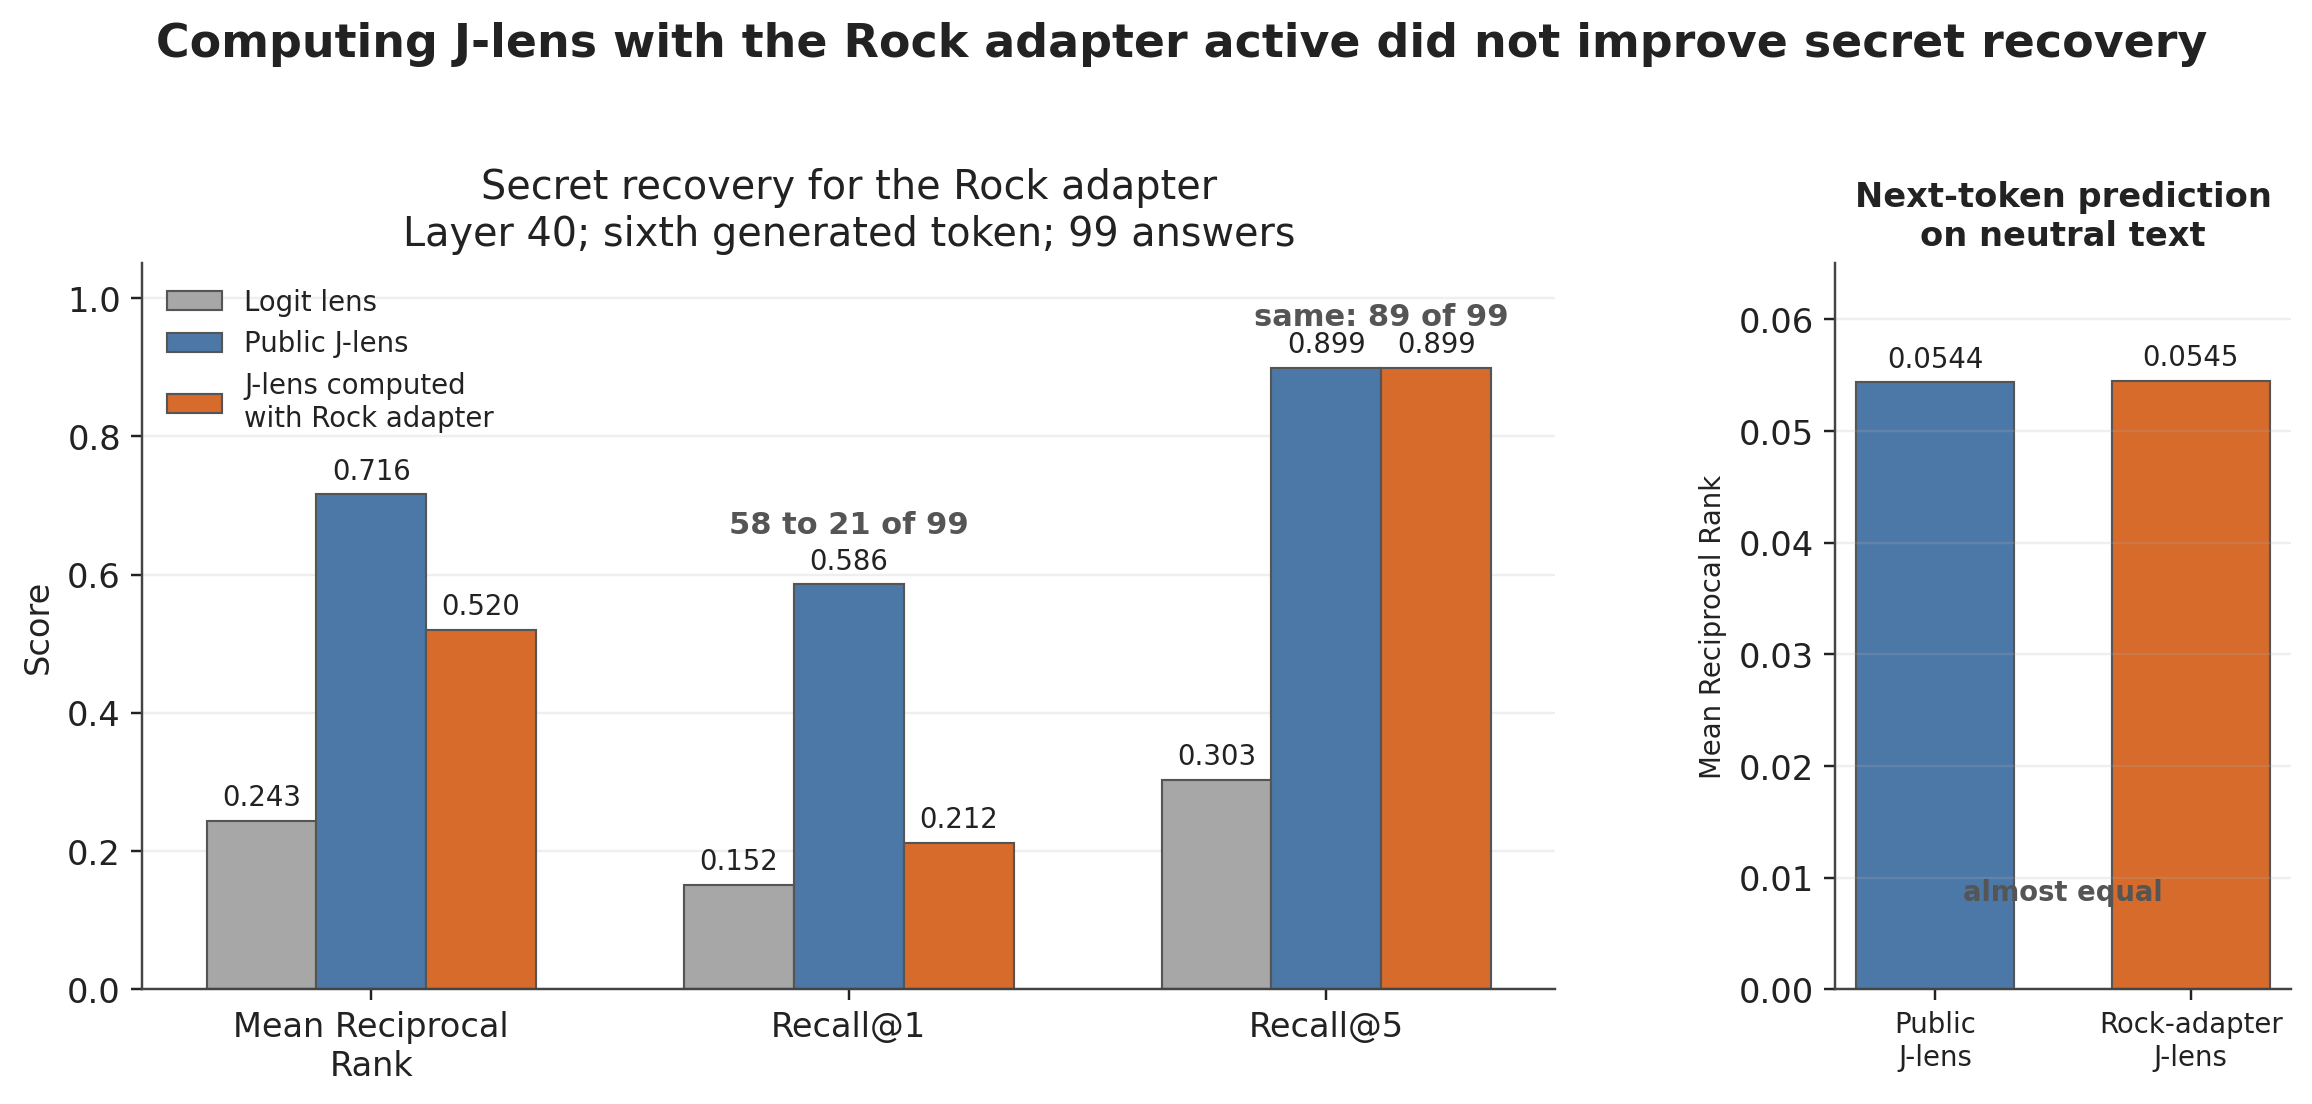
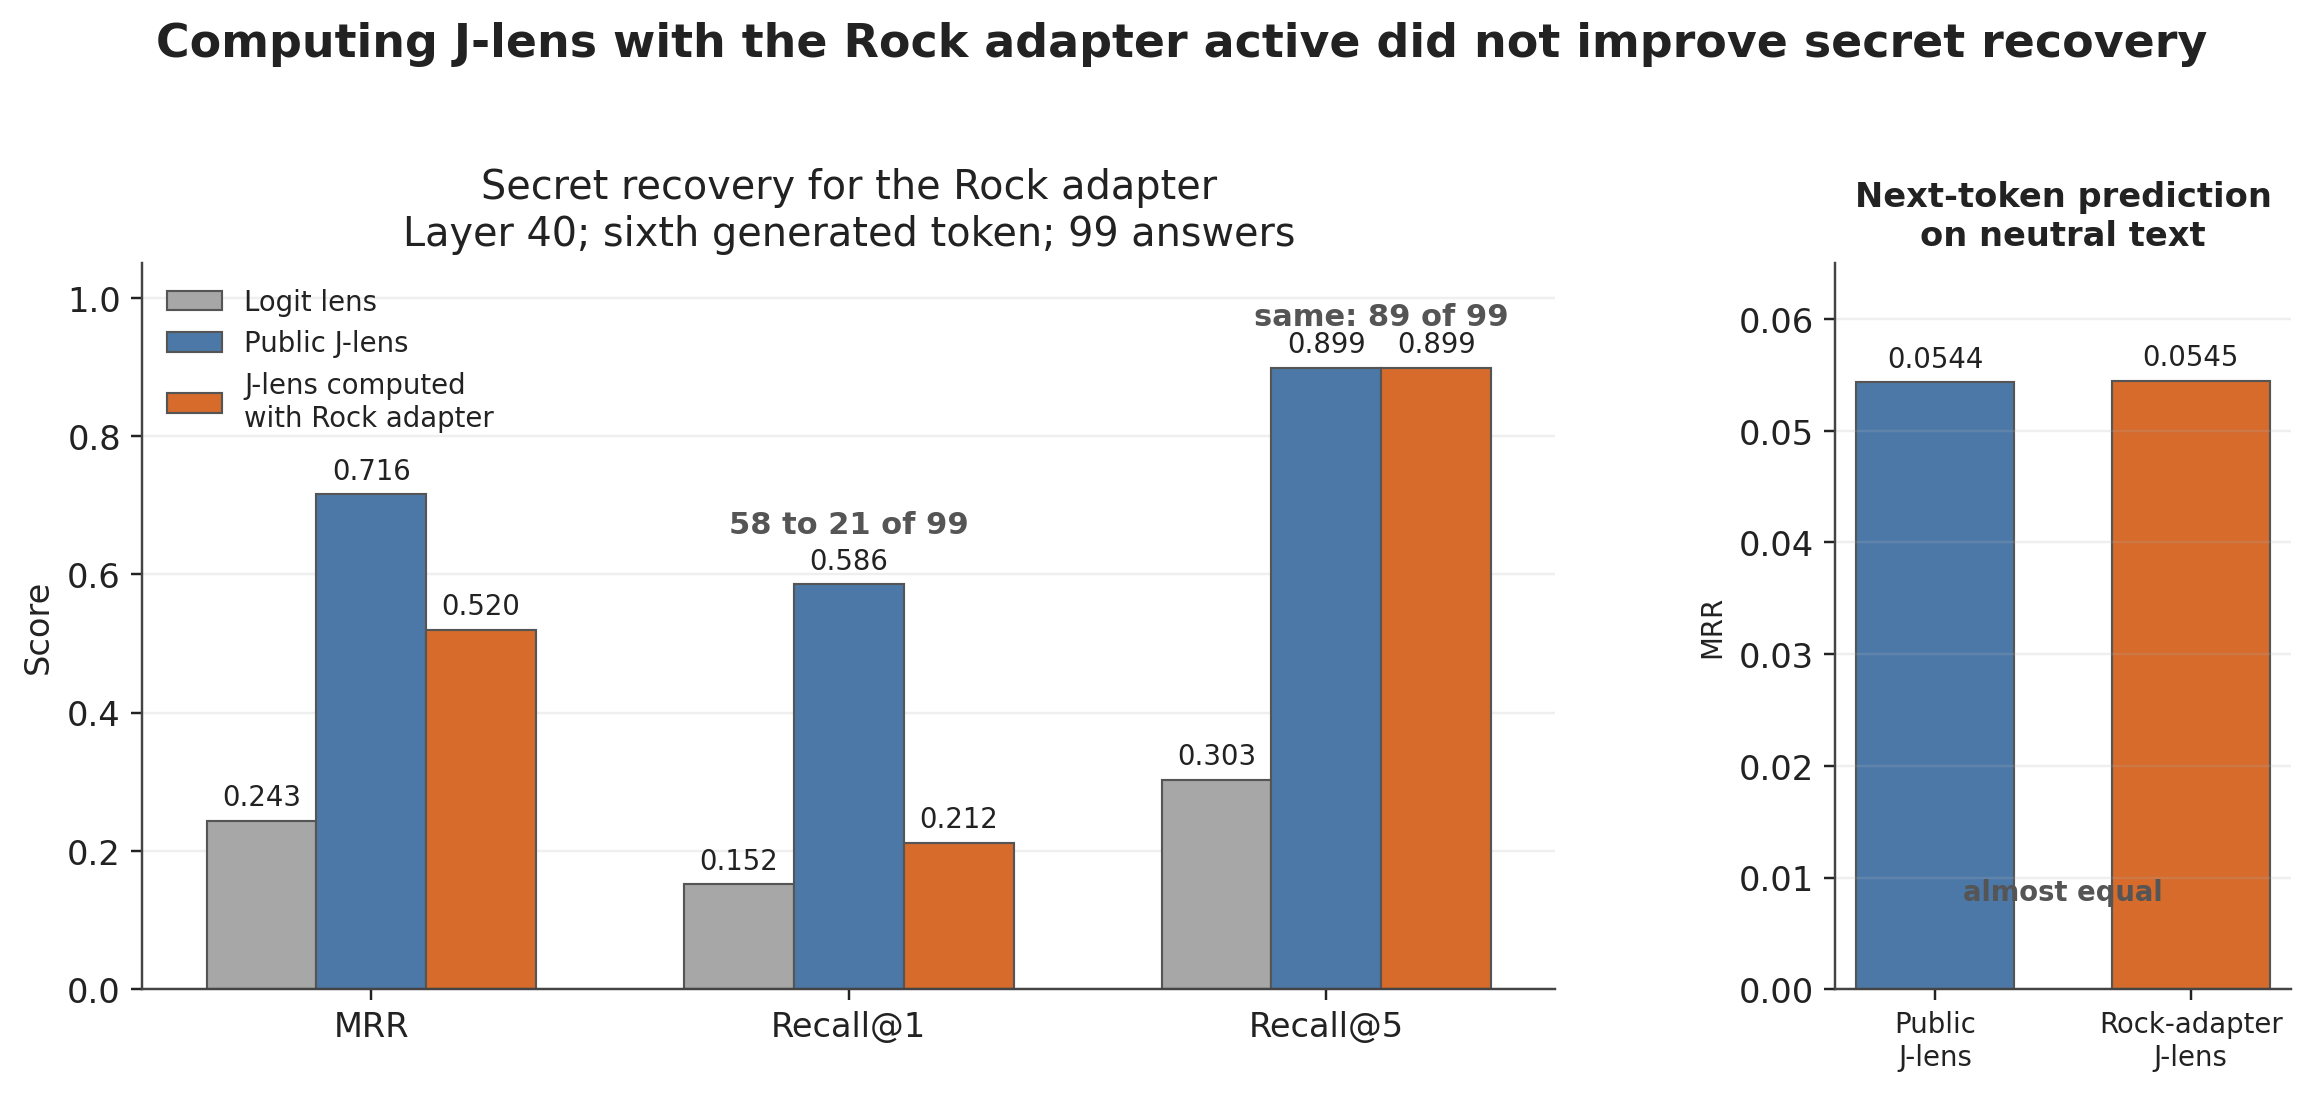
Clarify MRR and J-space terminology

diff --git a/writeup/build_writeup_figures.py b/writeup/build_writeup_figures.py
@@ -416,7 +416,7 @@ def build_rock_lens_comparison() -> None:
         ("own_adapter_jlens_n100", "J-lens computed\nwith Rock adapter", LORA),
     ]
     metrics = [
-        ("mean_reciprocal_rank", "Mean Reciprocal\nRank"),
+        ("mean_reciprocal_rank", "MRR"),
         ("recall_at_1", "Recall@1"),
         ("recall_at_5", "Recall@5"),
     ]
@@ -517,7 +517,7 @@ def build_rock_lens_comparison() -> None:
         fontsize=9,
     )
     inset.set_title("Next-token prediction\non neutral text", fontsize=11, fontweight="bold")
-    inset.set_ylabel("Mean Reciprocal Rank", fontsize=9)
+    inset.set_ylabel("MRR", fontsize=9)
     inset.set_xticks([0, 1], ["Public\nJ-lens", "Rock-adapter\nJ-lens"], fontsize=9)
     inset.set_ylim(0, 0.065)
     inset.grid(axis="y", alpha=0.2, zorder=0)

diff --git a/writeup/REPORT.md b/writeup/REPORT.md
@@ -30,8 +30,8 @@ knowledge elicitation.
 2. **The difference was not limited to one layer or one answer position.**
    J-lens had higher Recall@5 at every layer from 30 to 59. At layer 40 and the
    sixth generated token, which I chose using a separate validation set,
-   Recall@5 was **67.6% versus 51.2%**. Mean Reciprocal Rank was **0.491 versus
-   0.379**.
+   Recall@5 was **67.6% versus 51.2%**. Mean Reciprocal Rank (MRR) was **0.491
+   versus 0.379**.
 3. **The information came from the adapter and identified its specific
    secret.** With no adapter, Recall@5 was 0% for both methods. When each method
    had to choose among the 20 possible secret words, J-lens was correct for
@@ -63,12 +63,12 @@ over all its token positions. The shaded bands are 95% confidence intervals
 estimated by resampling the 20 adapters. I chose layer 40 using validation
 data, not this test curve.
 
-![Mean Reciprocal Rank for each adapter.](figures/writeup_method_heterogeneity.png)
+![MRR for each adapter.](figures/writeup_method_heterogeneity.png)
 
 **Figure 3. The result varies across adapters.** At layer 40 and the sixth
-generated token, J-lens had higher Mean Reciprocal Rank for 11 of the 20 secret
-words. The large gains for some secrets and losses for others are why I do not
-claim that J-lens is better for every secret.
+generated token, J-lens had higher MRR for 11 of the 20 secret words. The large
+gains for some secrets and losses for others are why I do not claim that J-lens
+is better for every secret.
 
 ## Main experiment
 
@@ -100,8 +100,8 @@ vocabulary. I used:
 - **Recall@5:** the fraction of answers where the exact secret word is among the
   five highest-scoring vocabulary tokens. These are not the five tokens
   generated in the answer.
-- **Mean Reciprocal Rank:** the average of 1 divided by the secret's rank. Rank
-  1 receives 1 point, rank 2 receives 0.5, and rank 10 receives 0.1.
+- **MRR:** the average of 1 divided by the secret's rank. Rank 1 receives 1
+  point, rank 2 receives 0.5, and rank 10 receives 0.1.
 - **Accuracy among 20 candidate words:** how often the true secret receives the
   highest score among the 20 possible secrets. Random choice gives 5%.
 
@@ -119,9 +119,8 @@ related, but they are not the same metric.
 
 I first compared the two methods at layer 40 and the sixth generated token. I
 had chosen both using the validation set. J-lens improved Recall@1 from 25.9%
-to 34.2% and Recall@5 from 51.2% to 67.6%. Its Mean Reciprocal Rank was 0.491,
-compared with 0.379 for the logit lens. The median rank of the secret moved from
-5 to 2.
+to 34.2% and Recall@5 from 51.2% to 67.6%. Its MRR was 0.491, compared with
+0.379 for the logit lens. The median rank of the secret moved from 5 to 2.
 
 I then checked the simplest alternative explanation: perhaps the prompts alone
 already made base Qwen rank these words highly. I ran the same prompts without
@@ -172,10 +171,13 @@ general task format.
 
 ## Small follow-up 1: sparse decomposition in J-space
 
-I next used **sparse decomposition in J-space** from the J-lens paper. This
-method approximates an activation with a small combination of J-lens vectors.
-The weights must be zero or positive. I used 16 vectors and tested the
-decomposition at layer 40 and the sixth generated token.
+I next used **sparse decomposition in J-space** from the J-lens paper. J-space
+contains one J-lens vector for each vocabulary token. Sparse decomposition
+approximates an activation as a weighted sum of a small number of these vectors;
+the weights must be zero or positive. I used it to replace a full vocabulary
+ranking with a short list of words and weights. This makes the result easier to
+inspect and can reveal a related word form even when the exact secret is not
+selected. I used 16 vectors at layer 40 and the sixth generated token.
 
 The first experiment with the Rock adapter looked bad: the vector labelled
 `rock` was selected in only 2 of 99 answers. But the raw examples showed
@@ -215,8 +217,8 @@ work better than the public lens computed for base Qwen. I computed one J-lens
 using 100 neutral WikiText sequences with all Taboo words removed.
 
 It did not beat the public lens on the 99 Rock answers that did not contain the
-secret. Mean Reciprocal Rank was 0.520 for the new lens and 0.716 for the public
-lens. Both reached 89.9% Recall@5.
+secret. MRR was 0.520 for the new lens and 0.716 for the public lens. Both
+reached 89.9% Recall@5.
 
 This comparison is uneven: the public lens was computed from ten times more
 sequences. A separate test of next-token prediction on neutral text found that
@@ -230,8 +232,8 @@ mechanism.
 
 **Figure 7. Computing J-lens with the Rock adapter active did not improve secret
 recovery.** Recall@5 was the same, but Recall@1 fell from 58 to 21 of 99 answers
-and Mean Reciprocal Rank fell from 0.716 to 0.520. On neutral text, the two
-J-lenses were almost equal at next-token prediction.
+and MRR fell from 0.716 to 0.520. On neutral text, the two J-lenses were almost
+equal at next-token prediction.
 
 ## Conclusion
 
